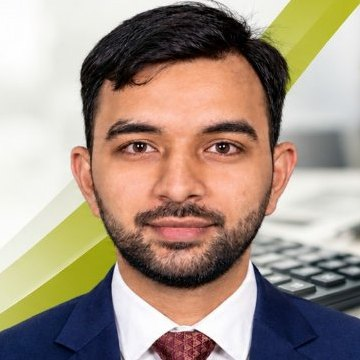
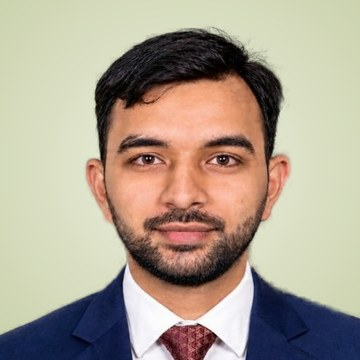
Use studio-style headshot and restore original About box
- Replace banner background behind headshot with a clean soft olive backdrop
- Restore the original Taxation Updates olive box in the homepage About section
- Remove the unused portrait image

Claude-Session: https://claude.ai/code/session_018DPcFu89Uv18taW5NXwKen

diff --git a/index.html b/index.html
@@ -465,18 +465,9 @@
   
     /* Profile photo */
     .hero-avatar { overflow: hidden; padding: 0; }
-    .hero-avatar img, .profile-avatar img, .reach-avatar img { width: 100%; height: 100%; object-fit: cover; object-position: center 20%; display: block; border-radius: 50%; }
+    .hero-avatar img, .profile-avatar img, .reach-avatar img { width: 100%; height: 100%; object-fit: cover; object-position: center; display: block; border-radius: 50%; }
     .hero-avatar picture, .profile-avatar picture, .reach-avatar picture { display: block; width: 100%; height: 100%; }
     .hero-avatar { width: 136px; height: 136px; }
-    .about-photo { aspect-ratio: 11/10; justify-content: flex-end; align-items: stretch; }
-    .about-photo::before, .about-photo::after { display: none; }
-    .about-photo picture, .about-photo img { position: absolute; inset: 0; width: 100%; height: 100%; object-fit: cover; object-position: center top; }
-    .about-photo-cap { position: relative; z-index: 1; padding: 4rem 1.6rem 1.4rem; background: linear-gradient(180deg, transparent 0%, rgba(20,24,6,0.55) 40%, rgba(20,24,6,0.88) 100%); text-align: left; }
-    .about-photo .about-box-text { font-size: 1.7rem; text-align: left; }
-    .about-photo .about-box-text sup { font-size: .8rem; }
-    .about-float { z-index: 3; }
-    @media (max-width: 920px) { .about-photo-cap { padding-bottom: 4.6rem; } .about-float { padding: 1rem 1.4rem; min-width: 0; } }
-    .about-photo .about-box-sub { margin-top: .3rem; opacity: .9; font-family: 'DM Sans', sans-serif; }
   </style>
   <script>(function(){var t=localStorage.getItem('theme');if(t)document.documentElement.setAttribute('data-theme',t);})();</script>
 </head>
@@ -563,12 +554,9 @@
 <section id="about">
   <div class="about-grid">
     <div class="about-img-wrap reveal">
-      <div class="about-box about-photo">
-        <picture><source srcset="/images/ca-mayur-sondagar-portrait.webp" type="image/webp"/><img src="/images/ca-mayur-sondagar-portrait.jpg" alt="CA Mayur J Sondagar" width="550" height="500" loading="lazy" decoding="async"/></picture>
-        <div class="about-photo-cap">
-          <div class="about-box-text">Taxation<sup>®</sup> Updates</div>
-          <div class="about-box-sub">Managed by CA Mayur J Sondagar</div>
-        </div>
+      <div class="about-box">
+        <div class="about-box-text">Taxation<sup>®</sup><br/>Updates</div>
+        <div class="about-box-sub">Managed by CA Mayur J Sondagar</div>
       </div>
       <div class="about-float">
         <strong>8+</strong>

diff --git a/contact.html b/contact.html
@@ -362,7 +362,7 @@
     .reach-head { display: flex; align-items: center; gap: 1rem; }
     .reach-head .info-heading { margin: 0; }
     .reach-avatar { width: 64px; height: 64px; flex-shrink: 0; border-radius: 50%; overflow: hidden; border: 3px solid var(--olive-light); box-shadow: 0 6px 20px rgba(107,118,15,0.25); }
-    .reach-avatar picture, .reach-avatar img { display: block; width: 100%; height: 100%; object-fit: cover; object-position: center 20%; }
+    .reach-avatar picture, .reach-avatar img { display: block; width: 100%; height: 100%; object-fit: cover; object-position: center; }
   </style>
   <script>(function(){var t=localStorage.getItem('theme');if(t)document.documentElement.setAttribute('data-theme',t);})();</script>
 </head>

diff --git a/about.html b/about.html
@@ -485,7 +485,7 @@
     /* Profile photo */
     .profile-avatar { overflow: hidden; padding: 0; width: 128px; height: 128px; }
     .profile-avatar picture { display: block; width: 100%; height: 100%; }
-    .profile-avatar img { width: 100%; height: 100%; object-fit: cover; object-position: center 20%; display: block; }
+    .profile-avatar img { width: 100%; height: 100%; object-fit: cover; object-position: center; display: block; }
   </style>
   <script>(function(){var t=localStorage.getItem('theme');if(t)document.documentElement.setAttribute('data-theme',t);})();</script>
 </head>
